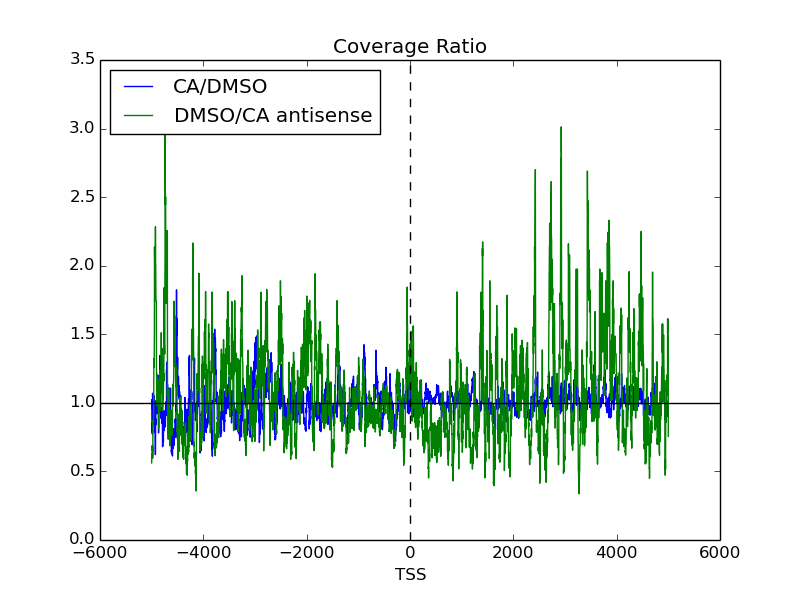
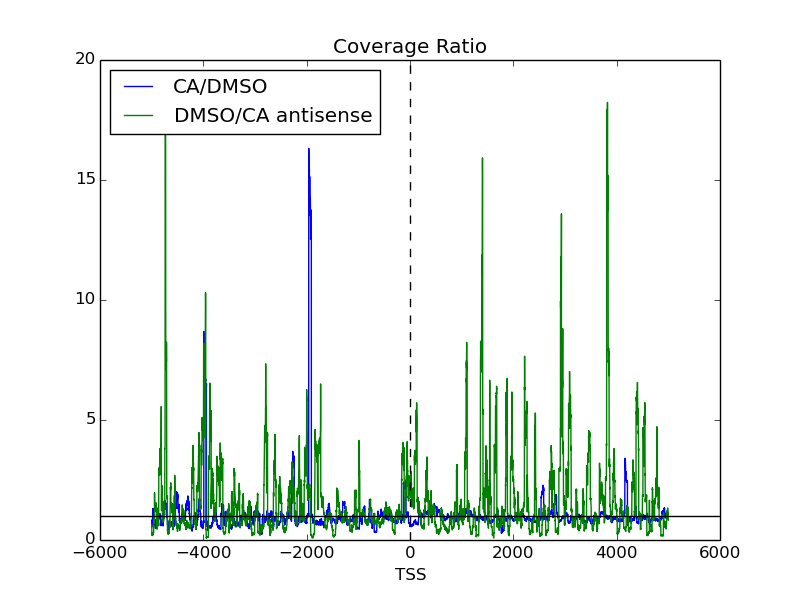
updates

diff --git a/src/metagene_TSS.py b/src/metagene_TSS.py
@@ -103,24 +103,22 @@ def run(file1,file2,file3):
     
     
     for gene in DMSOdict:
-        maximum = np.sum(DMSOdict[gene]) + np.sum(CAdict[gene])
-        maximumanti = np.sum(DMSOantidict[gene]) + np.sum(CAantidict[gene])
+        maximum = np.amax(DMSOdict[gene])
+        maximumanti = np.amin(DMSOantidict[gene])
         for i in range(len(DMSOdict[gene])):
             if maximum != 0:
                 DMSOarray[i] += DMSOdict[gene][i]/maximum
-                CAarray[i] += CAdict[gene][i]/maximum
             if maximumanti != 0:
                 DMSOantiarray[i] += -DMSOantidict[gene][i]/maximumanti
-                CAantiarray[i] += -CAantidict[gene][i]/maximumanti
             
-    #for gene in CAdict:
-    #    for i in range(len(CAdict[gene])):
-    #        maximum = np.sum(CAdict[gene][i])
-    #        if maximum != 0:
-    #            CAarray[i] += CAdict[gene][i]/maximum
-    #        maximumanti = np.sum(CAantidict[gene][i])
-    #        if maximumanti != 0:
-    #            CAantiarray[i] += -CAantidict[gene][i]/maximumanti
+    for gene in CAdict:
+        maximum = np.amax(CAdict[gene])
+        maximumanti = np.amin(CAantidict[gene])
+        for i in range(len(CAdict[gene])):
+            if maximum != 0:
+                CAarray[i] += CAdict[gene][i]/maximum
+            if maximumanti != 0:
+                CAantiarray[i] += -CAantidict[gene][i]/maximumanti
     
     DMSOmax = np.sum(DMSOarray)
     DMSOantimax = np.sum(DMSOantiarray)
